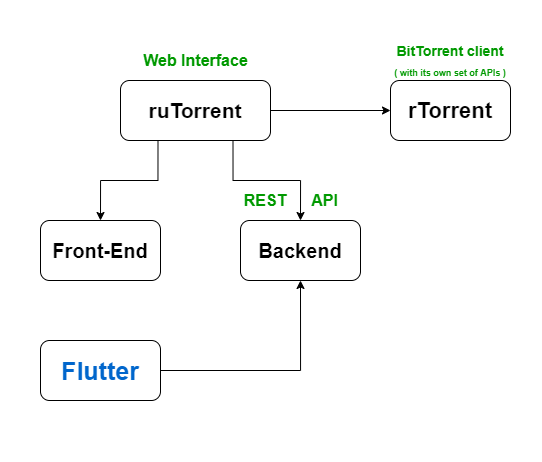
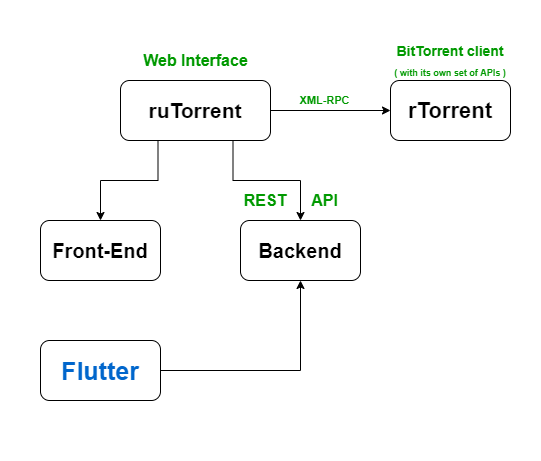
docs: Changed absolute path to relative path and enhanced diagram

diff --git a/README.md b/README.md
@@ -28,7 +28,7 @@ ruTorrent ⇒ A web interface for rtorrent that uses that API. It also does othe
 
 Thus, our Flutter application talks with ruTorrent's backend service to provide a native interface.
 
-![Diagram](https://github.com/AbdulMalikDev/rutorrent-flutter/blob/master/assets/docs/ruTorrent%20Flutter%20Application%20Diagram.png)
+![Diagram](./assets/docs/ruTorrent%20Flutter%20Application%20Diagram.png)
 
 ## Usage
 
